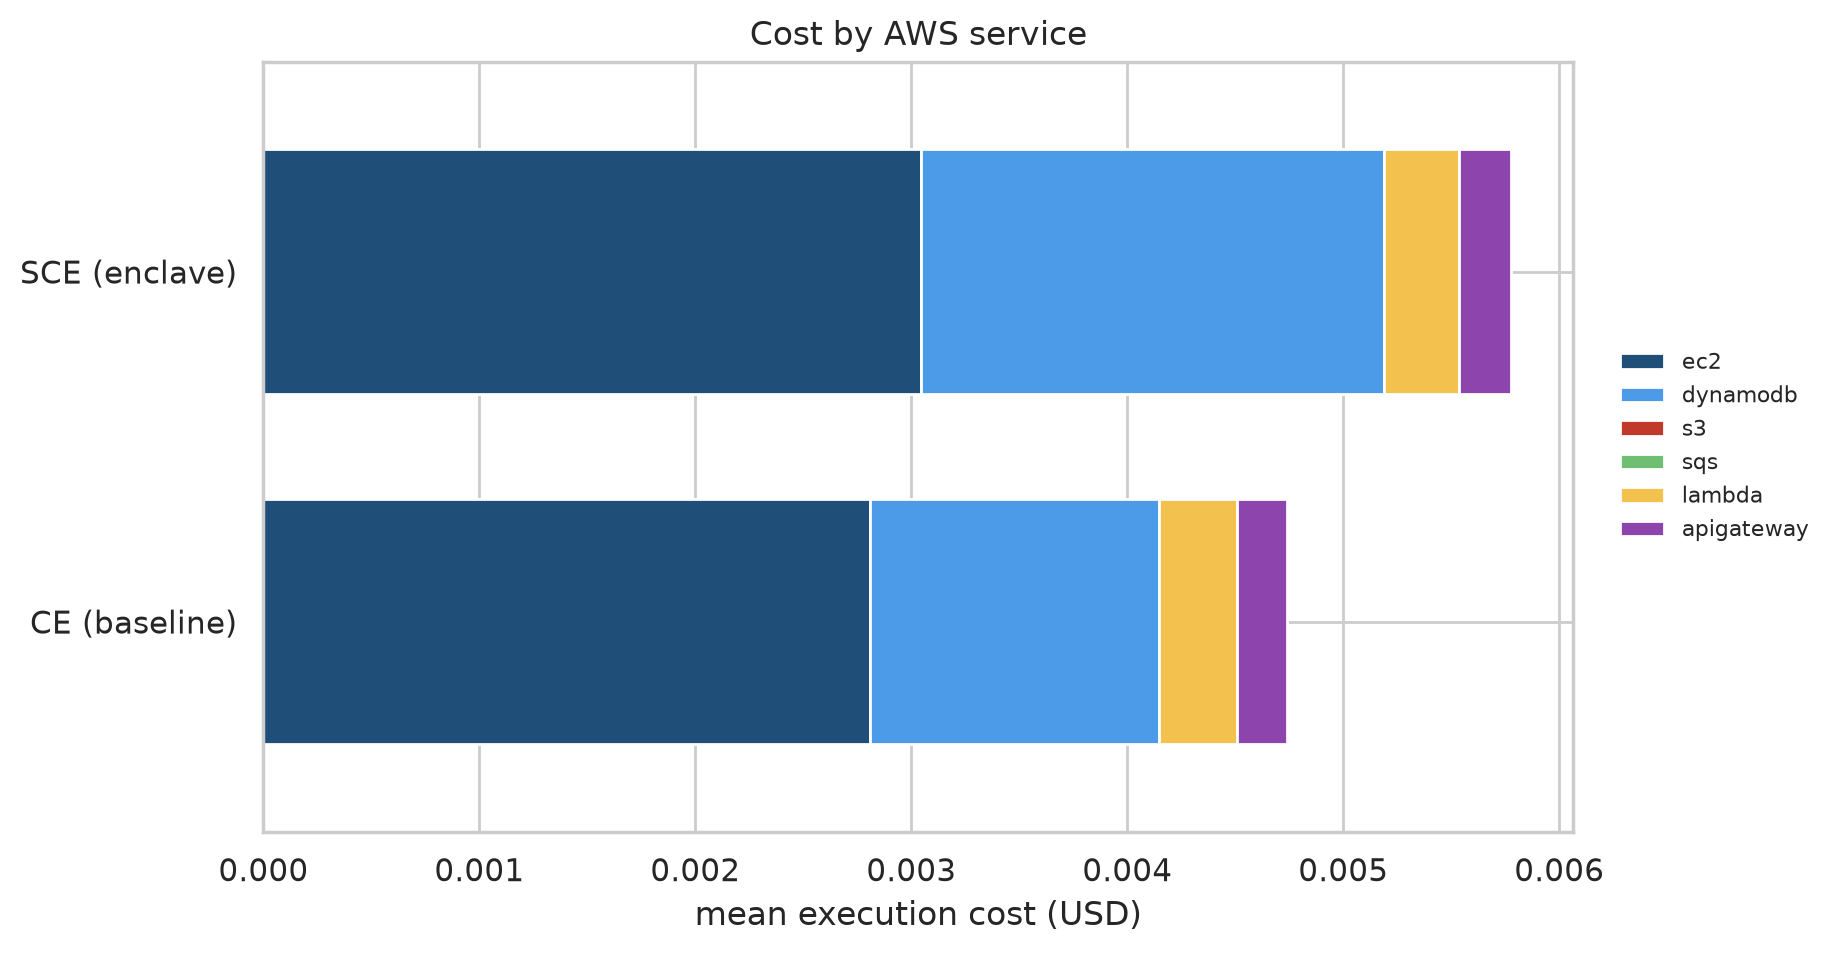
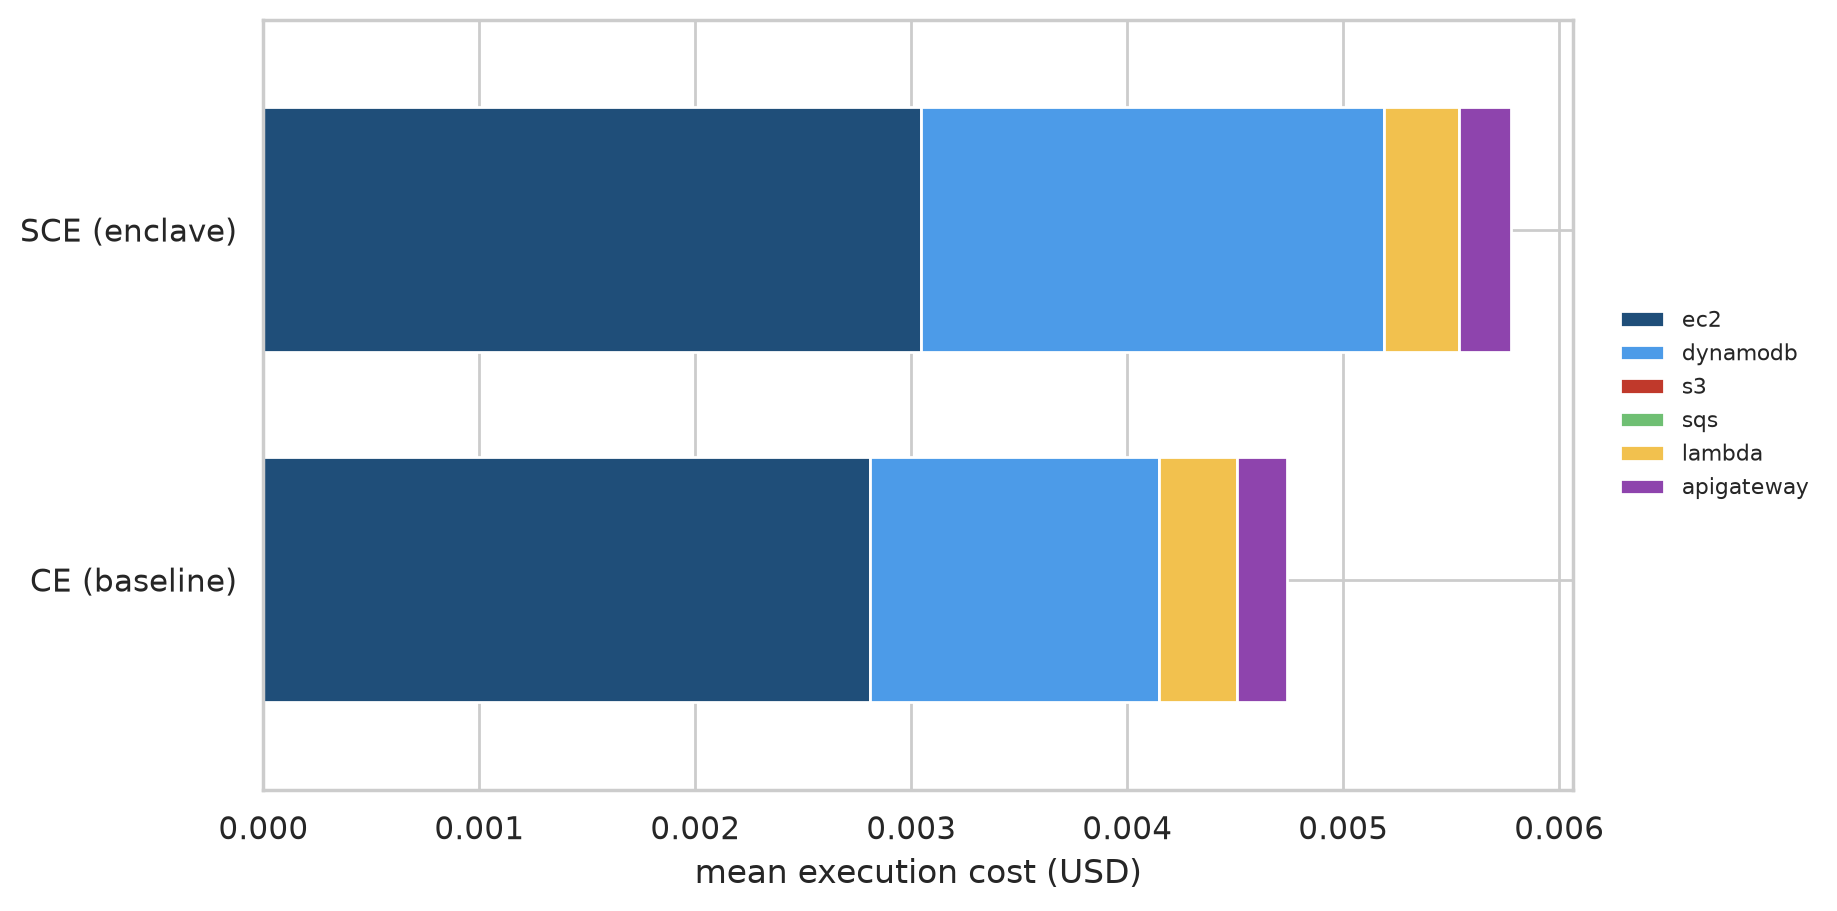
fix(benchmark): remove plot titles

diff --git a/benchmark/src/plot.py b/benchmark/src/plot.py
@@ -77,8 +77,7 @@ def phases_figure(df: pd.DataFrame) -> None:
     ax.invert_yaxis()
     ax.set_xlabel("seconds (mean per run)")
     ax.set_ylabel("")
-    ax.set_title("Where an execution's wall clock goes, by dataset size")
-    fig.subplots_adjust(left=0.28, right=0.98, top=0.9, bottom=0.34)
+    fig.subplots_adjust(left=0.28, right=0.98, top=0.98, bottom=0.34)
     ax.legend(
         list(PHASES.values()),
         loc="upper center",
@@ -144,7 +143,6 @@ def scaling_figure(df: pd.DataFrame) -> None:
     )
     ax.set_xlabel("dataset size (records)")
     ax.set_ylabel("total execution time (seconds)")
-    ax.set_title("End-to-end execution time vs dataset size")
     ax.legend(title=None, frameon=False)
     ax.set_xticks([10_000, 30_000, 50_000, 70_000, 90_000, 110_000, 130_000, 150_000])
     ax.set_xticklabels([f"{x // 1000}K" for x in ax.get_xticks()])
@@ -166,7 +164,6 @@ def cost_size_figure(df: pd.DataFrame) -> None:
     )
     ax.set_xlabel("dataset size (records)")
     ax.set_ylabel("execution cost (USD)")
-    ax.set_title("Execution cost vs dataset size")
     ax.legend(title=None, frameon=False)
     _save(fig, "sweep-cost.png")
 
@@ -180,7 +177,6 @@ def cost_services_figure(df: pd.DataFrame) -> None:
     by_service.plot.barh(stacked=True, color=COST_COLORS, width=0.7, ax=ax)
     ax.set_xlabel("mean execution cost (USD)")
     ax.set_ylabel("")
-    ax.set_title("Cost by AWS service")
     ax.legend(title=None, loc="center left", bbox_to_anchor=(1.02, 0.5), frameon=False, fontsize=8)
     fig.subplots_adjust(right=0.78)
     _save(fig, "sweep-cost-services.png")
